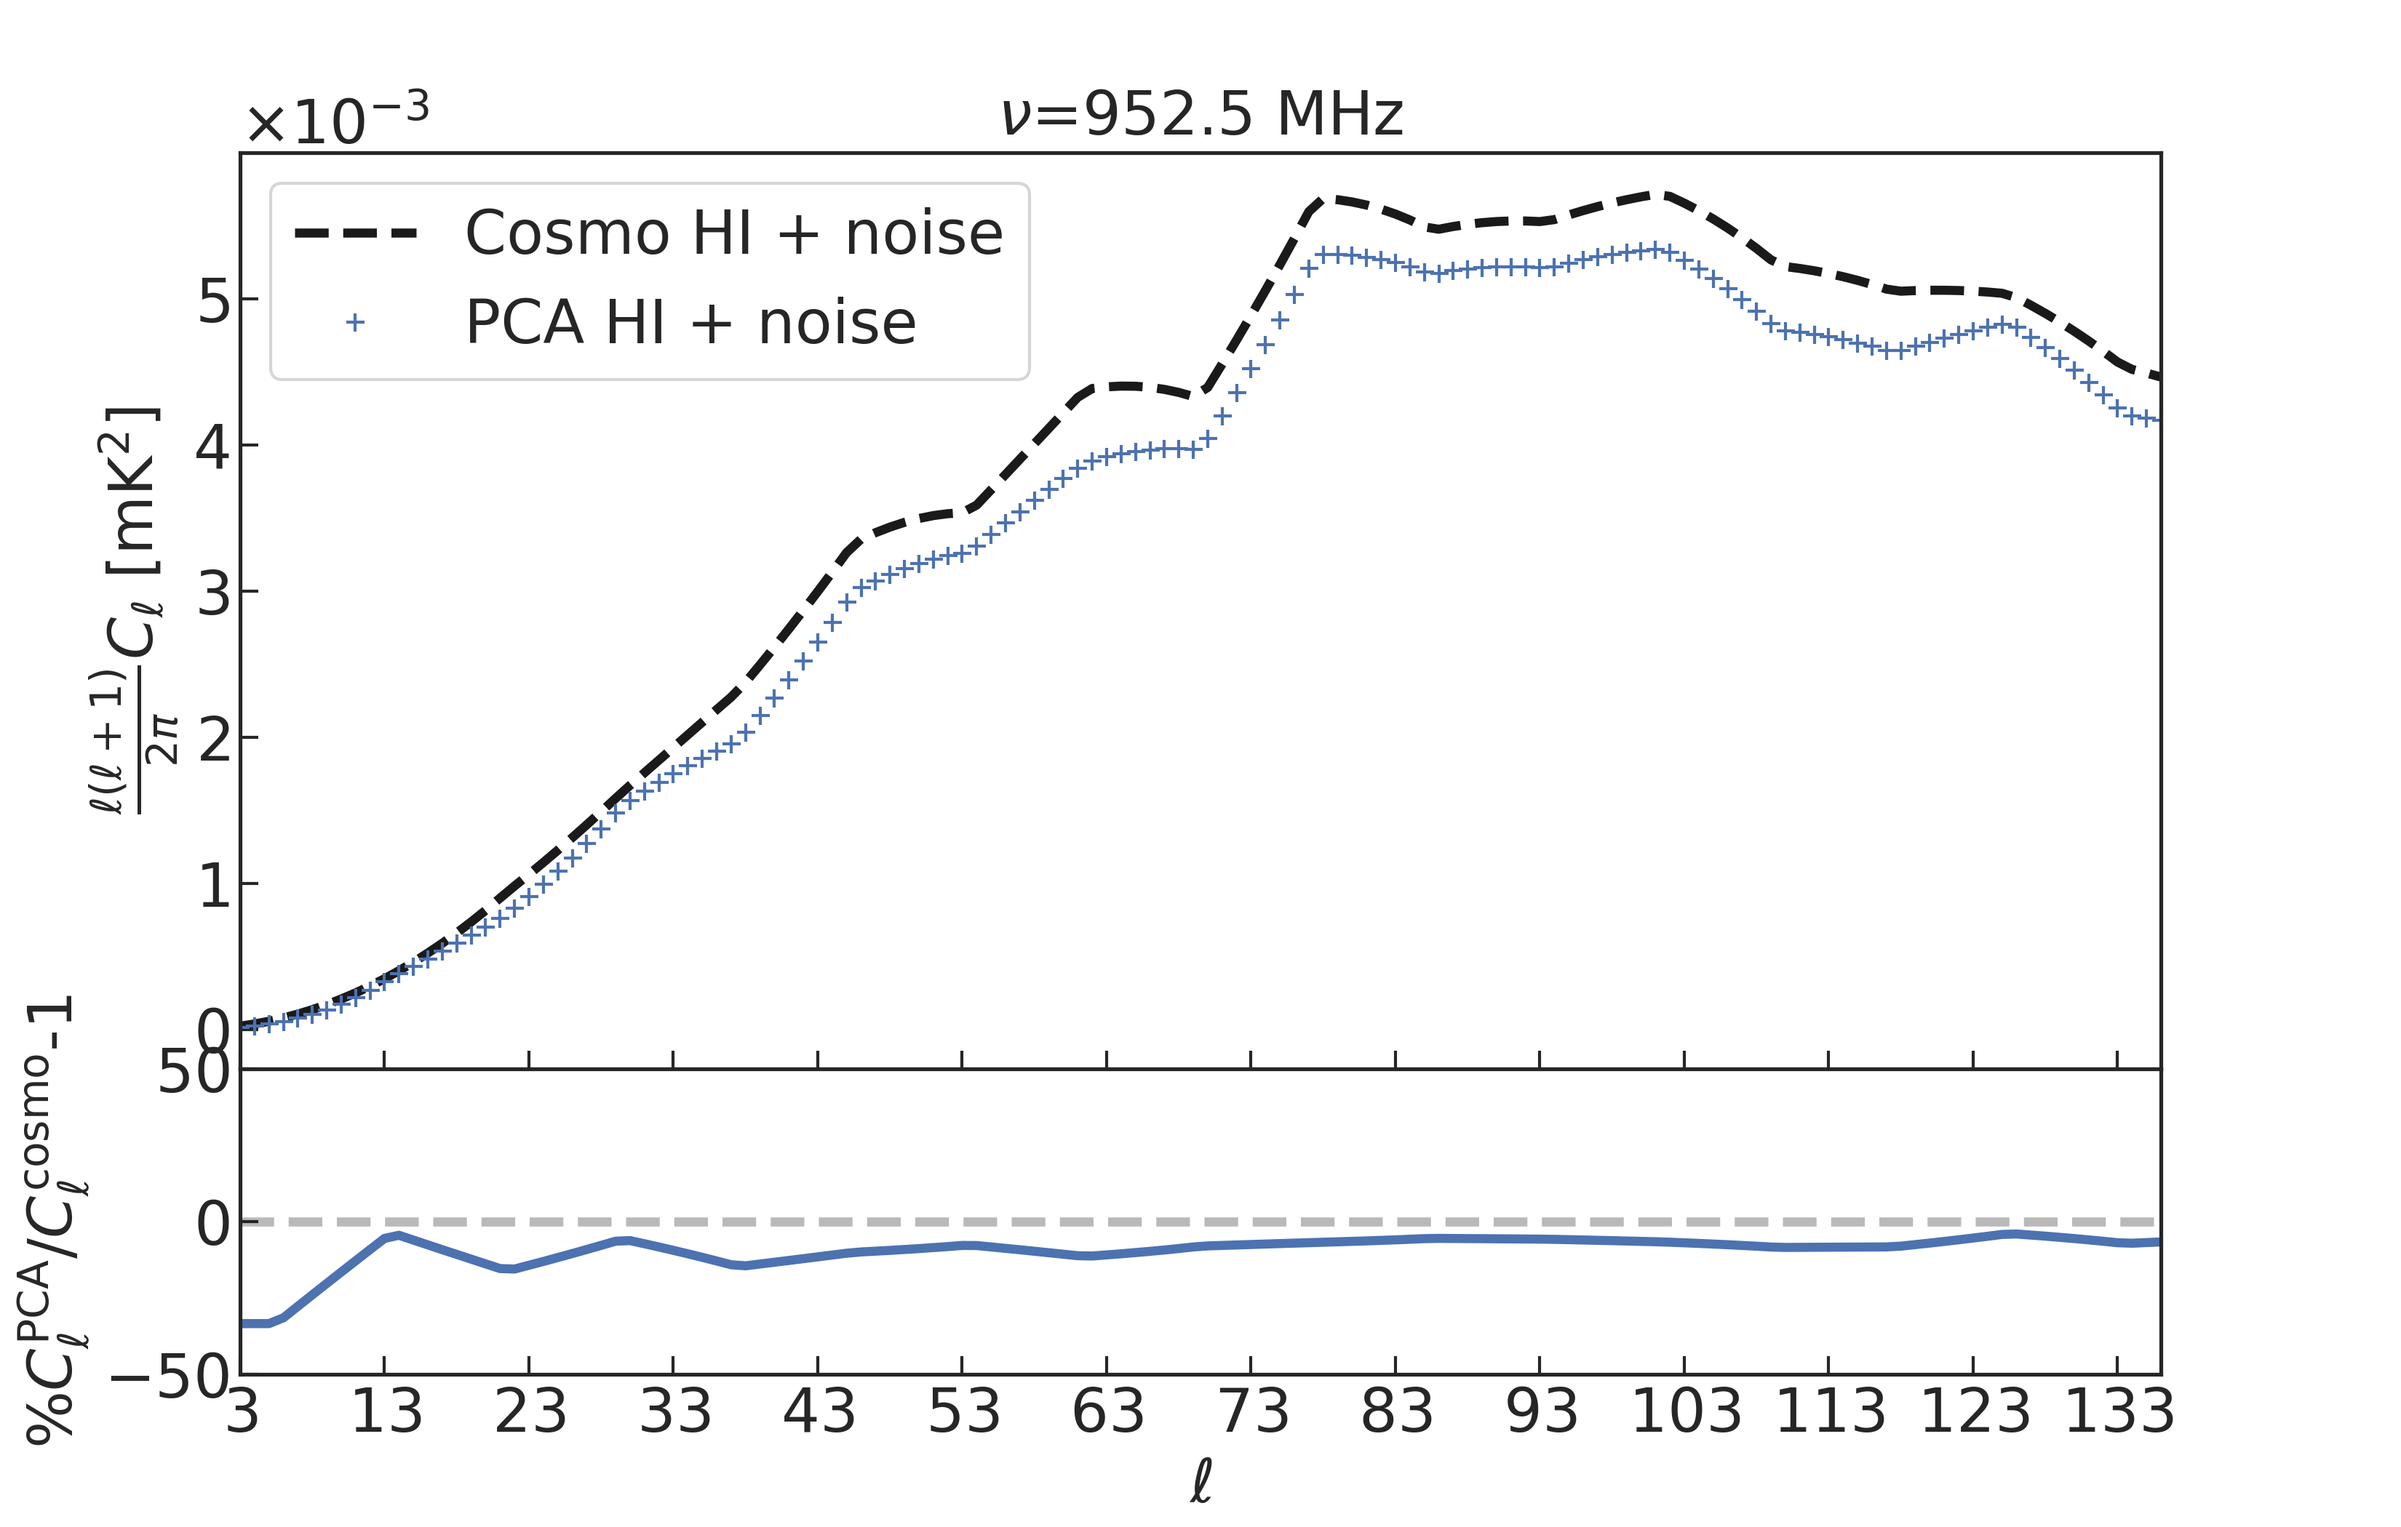
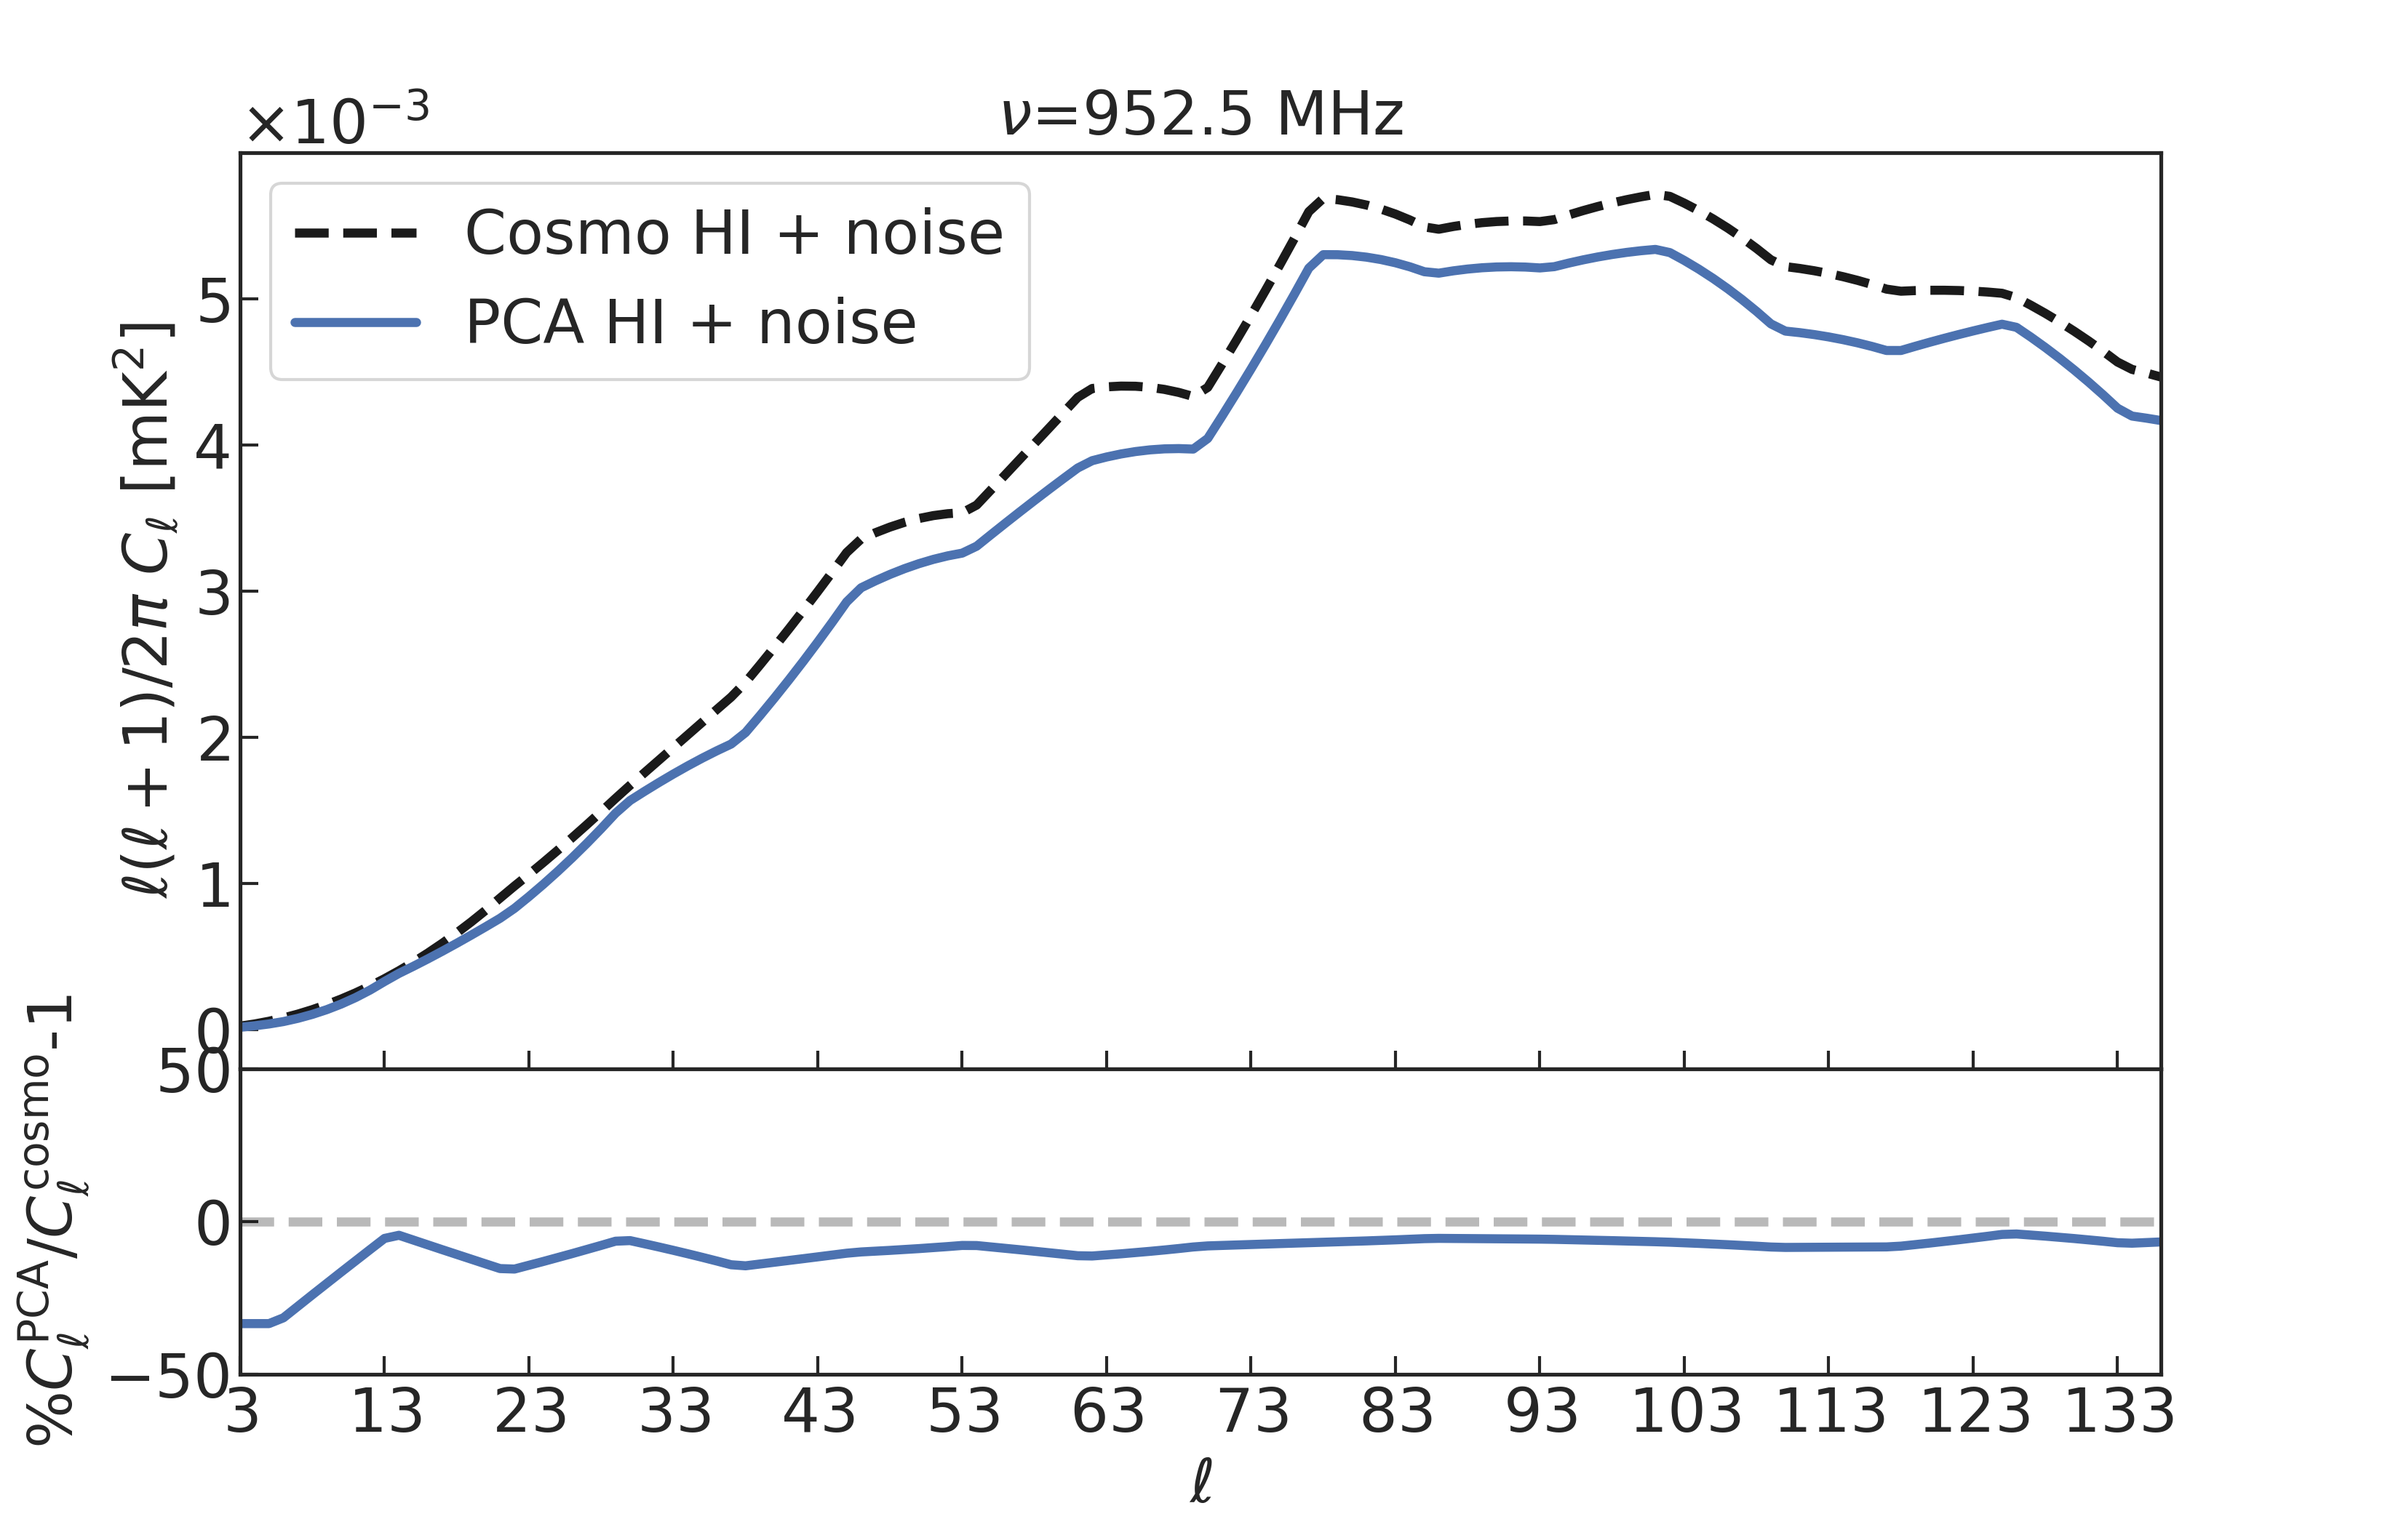
added sono plots

diff --git a/PCA_needlets_output/plots_paper.py b/PCA_needlets_output/plots_paper.py
@@ -92,11 +92,11 @@ frame1=fig.add_axes((.1,.3,.8,.6))
 plt.title(r'$\nu$='+f'{nu_ch[ich]} MHz')
 plt.plot(ell[lmin:],factor[lmin:]*cl_cosmo_HI[ich][lmin:],'k--',label='Cosmo HI + noise')
 #plt.plot(ell[lmin:],factor[lmin:]*cl_cosmo_recon_HI[ich][lmin:],'k--',label='Cosmo HI + noise recons')
-plt.plot(ell[lmin:],factor[lmin:]*cl_PCA_HI[ich][lmin:],'+', label='PCA HI + noise')
+plt.plot(ell[lmin:],factor[lmin:]*cl_PCA_HI[ich][lmin:],  label='PCA HI + noise')
 plt.ticklabel_format(style='sci', axis='y', scilimits=(0,0))
 plt.xlim([lmin,lmax_plot])
 plt.legend()
-frame1.set_ylabel(r'$\frac{\ell(\ell+1)}{2\pi} C_{\ell} $ [mK$^{2}$]')
+frame1.set_ylabel(r'$  \ell(\ell+1)/2\pi~ C_{\ell} $ [mK$^{2}$]')
 frame1.set_xlabel([])
 frame1.set_xticks(np.arange(lmin,lmax_plot+1, 10), labels=[])
 #frame1.yaxis.set_major_formatter(formatter) 
@@ -128,11 +128,11 @@ frame1=fig.add_axes((.1,.3,.8,.6))
 plt.title(f'Mean over frequency channels')
 plt.plot(ell[lmin:], factor[lmin:]*cl_cosmo_HI.mean(axis=0)[lmin:],'k--',label = f'Cosmo HI + noise')
 #plt.plot(ell[lmin:],factor[lmin:]*cl_cosmo_recon_HI.mean(axis=0)[lmin:],'k--',label='Cosmo HI + noise recons')
-plt.plot(ell[lmin:], factor[lmin:]*cl_PCA_HI.mean(axis=0)[lmin:],'+',mfc='none', label = f'PCA HI + noise')
+plt.plot(ell[lmin:], factor[lmin:]*cl_PCA_HI.mean(axis=0)[lmin:], label = f'PCA HI + noise')
 plt.xlim([lmin,lmax_plot])
 plt.legend()
 plt.ticklabel_format(style='sci', axis='y', scilimits=(0,0))
-frame1.set_ylabel(r'$\frac{\ell(\ell+1)}{2\pi} \langle C_{\ell} \rangle_{\rm ch}$ [mK$^{2}$]')
+frame1.set_ylabel(r'$  \ell(\ell+1)/2\pi~ \langle C_{\ell} \rangle_{\rm ch}$ [mK$^{2}$]')
 frame1.set_xlabel([])
 frame1.set_xticks(np.arange(lmin,lmax_plot+1, 10), labels=[])
 #frame1.yaxis.set_major_formatter(formatter) 
@@ -186,11 +186,11 @@ fig = plt.figure()
 frame1=fig.add_axes((.1,.3,.8,.6))
 plt.title(r'$\nu$='+f'{nu_ch[ich]} MHz, with pol leakage')
 plt.plot(ell[lmin:],factor[lmin:]*cl_cosmo_HI[ich][lmin:],'k--',label='Cosmo HI + noise')
-plt.plot(ell[lmin:],factor[lmin:]*cl_PCA_HI_pol[ich][lmin:],'+', label='PCA HI + noise')
+plt.plot(ell[lmin:],factor[lmin:]*cl_PCA_HI_pol[ich][lmin:],  label='PCA HI + noise')
 plt.ticklabel_format(style='sci', axis='y', scilimits=(0,0))
 plt.xlim([lmin,lmax_plot])
 plt.legend()
-frame1.set_ylabel(r'$\frac{\ell(\ell+1)}{2\pi} C_{\ell} $ [mK$^{2}$]')
+frame1.set_ylabel(r'$  \ell(\ell+1)/2\pi~ C_{\ell} $ [mK$^{2}$]')
 frame1.set_xlabel([])
 frame1.set_xticks(np.arange(lmin,lmax_plot+1, 10), labels=[])
 #frame1.yaxis.set_major_formatter(formatter) 
@@ -219,11 +219,11 @@ fig = plt.figure()
 frame1=fig.add_axes((.1,.3,.8,.6))
 plt.title(f'Mean over frequency channels, with pol leakage')
 plt.plot(ell[lmin:], factor[lmin:]*cl_cosmo_HI.mean(axis=0)[lmin:],'k--',label = f'Cosmo HI + noise')
-plt.plot(ell[lmin:], factor[lmin:]*cl_PCA_HI_pol.mean(axis=0)[lmin:],'+',mfc='none', label = f'PCA HI + noise')
+plt.plot(ell[lmin:], factor[lmin:]*cl_PCA_HI_pol.mean(axis=0)[lmin:], mfc='none', label = f'PCA HI + noise')
 plt.xlim([lmin,lmax_plot])
 plt.ticklabel_format(style='sci', axis='y', scilimits=(0,0))
 plt.legend()
-frame1.set_ylabel(r'$\frac{\ell(\ell+1)}{2\pi} \langle C_{\ell} \rangle_{\rm ch}$ [mK$^{2}$]')
+frame1.set_ylabel(r'$  \ell(\ell+1)/2\pi~ \langle C_{\ell} \rangle_{\rm ch}$ [mK$^{2}$]')
 frame1.set_xlabel([])
 frame1.set_xticks(np.arange(lmin,lmax_plot+1, 10), labels=[])
 #frame1.yaxis.set_major_formatter(formatter) 
@@ -284,11 +284,11 @@ fig = plt.figure()
 frame1=fig.add_axes((.1,.3,.8,.6))
 plt.title(r'$\theta_{\rm FMWH}=1.3$ deg, $\nu$='+f'{nu_ch[ich]} MHz')
 plt.plot(ell[lmin:],factor[lmin:]*cl_cosmo_HI_1p3deg[ich][lmin:],'k--',label='Cosmo HI + noise')
-plt.plot(ell[lmin:],factor[lmin:]*cl_PCA_HI_1p3deg[ich][lmin:],'+', label='PCA HI + noise')
+plt.plot(ell[lmin:],factor[lmin:]*cl_PCA_HI_1p3deg[ich][lmin:],  label='PCA HI + noise')
 plt.ticklabel_format(style='sci', axis='y', scilimits=(0,0))
 plt.xlim([lmin,lmax_plot])
 plt.legend()
-frame1.set_ylabel(r'$\frac{\ell(\ell+1)}{2\pi} C_{\ell} $ [mK$^{2}$]')
+frame1.set_ylabel(r'$  \ell(\ell+1)/2\pi~ C_{\ell} $ [mK$^{2}$]')
 frame1.set_xlabel([])
 frame1.set_xticks(np.arange(lmin,lmax_plot+1, 10), labels=[])
 #frame1.yaxis.set_major_formatter(formatter) 
@@ -316,11 +316,11 @@ fig = plt.figure()
 frame1=fig.add_axes((.1,.3,.8,.6))
 plt.title(r'$\theta_{\rm FMWH}=1.3$ deg, '+f'Mean over frequency channels')
 plt.plot(ell[lmin:], factor[lmin:]*cl_cosmo_HI_1p3deg.mean(axis=0)[lmin:],'k--',label = f'Cosmo HI + noise')
-plt.plot(ell[lmin:], factor[lmin:]*cl_PCA_HI_1p3deg.mean(axis=0)[lmin:],'+',mfc='none', label = f'PCA HI + noise')
+plt.plot(ell[lmin:], factor[lmin:]*cl_PCA_HI_1p3deg.mean(axis=0)[lmin:], mfc='none', label = f'PCA HI + noise')
 plt.xlim([lmin,lmax_plot])
 plt.ticklabel_format(style='sci', axis='y', scilimits=(0,0))
 plt.legend()
-frame1.set_ylabel(r'$\frac{\ell(\ell+1)}{2\pi} \langle C_{\ell} \rangle_{\rm ch}$ [mK$^{2}$]')
+frame1.set_ylabel(r'$  \ell(\ell+1)/2\pi~ \langle C_{\ell} \rangle_{\rm ch}$ [mK$^{2}$]')
 frame1.set_xlabel([])
 frame1.set_xticks(np.arange(lmin,lmax_plot+1, 10), labels=[])
 #frame1.yaxis.set_major_formatter(formatter) 
@@ -361,11 +361,11 @@ fig = plt.figure()
 frame1=fig.add_axes((.1,.3,.8,.6))
 plt.title(r'$\theta_{\rm FMWH}=1.3$ deg, $\nu$='+f'{nu_ch[ich]} MHz, with pol leakage')
 plt.plot(ell[lmin:],factor[lmin:]*cl_cosmo_HI_1p3deg[ich][lmin:],'k--',label='Cosmo HI + noise')
-plt.plot(ell[lmin:],factor[lmin:]*cl_PCA_HI_1p3deg_pol[ich][lmin:],'+', label='PCA HI + noise')
+plt.plot(ell[lmin:],factor[lmin:]*cl_PCA_HI_1p3deg_pol[ich][lmin:],  label='PCA HI + noise')
 plt.ticklabel_format(style='sci', axis='y', scilimits=(0,0))
 plt.xlim([lmin,lmax_plot])
 plt.legend()
-frame1.set_ylabel(r'$\frac{\ell(\ell+1)}{2\pi} C_{\ell} $ [mK$^{2}$]')
+frame1.set_ylabel(r'$  \ell(\ell+1)/2\pi~ C_{\ell} $ [mK$^{2}$]')
 frame1.set_xlabel([])
 frame1.set_xticks(np.arange(lmin,lmax_plot+1, 10), labels=[])
 #frame1.yaxis.set_major_formatter(formatter) 
@@ -392,11 +392,11 @@ fig = plt.figure()
 frame1=fig.add_axes((.1,.3,.8,.6))
 plt.title(r'$\theta_{\rm FMWH}=1.3$ deg, '+f'Mean over frequency channels, with pol leakage')
 plt.plot(ell[lmin:], factor[lmin:]*cl_cosmo_HI_1p3deg.mean(axis=0)[lmin:],'k--',label = f'Cosmo HI + noise')
-plt.plot(ell[lmin:], factor[lmin:]*cl_PCA_HI_1p3deg_pol.mean(axis=0)[lmin:],'+',mfc='none', label = f'PCA HI + noise')
+plt.plot(ell[lmin:], factor[lmin:]*cl_PCA_HI_1p3deg_pol.mean(axis=0)[lmin:], mfc='none', label = f'PCA HI + noise')
 plt.xlim([lmin,lmax_plot])
 plt.ticklabel_format(style='sci', axis='y', scilimits=(0,0))
 plt.legend()
-frame1.set_ylabel(r'$\frac{\ell(\ell+1)}{2\pi} \langle C_{\ell} \rangle_{\rm ch}$ [mK$^{2}$]')
+frame1.set_ylabel(r'$  \ell(\ell+1)/2\pi~ \langle C_{\ell} \rangle_{\rm ch}$ [mK$^{2}$]')
 frame1.set_xlabel([])
 frame1.set_xticks(np.arange(lmin,lmax_plot+1, 10), labels=[])
 #frame1.yaxis.set_major_formatter(formatter) 
